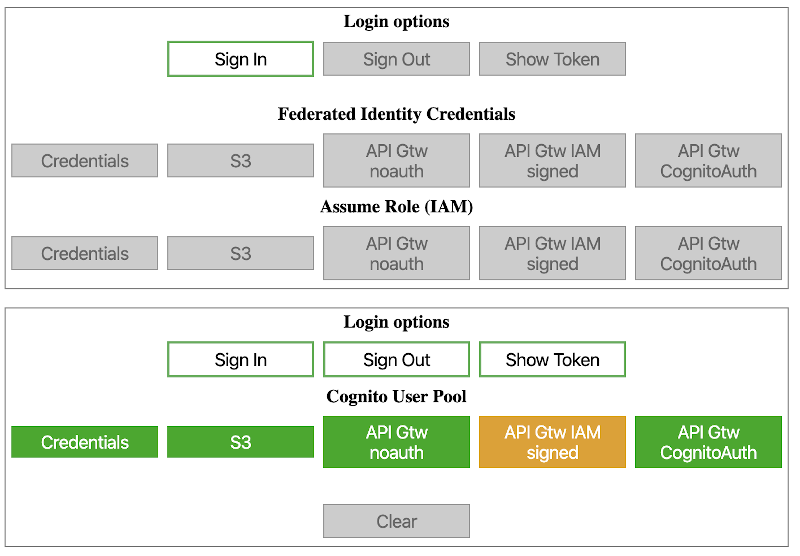
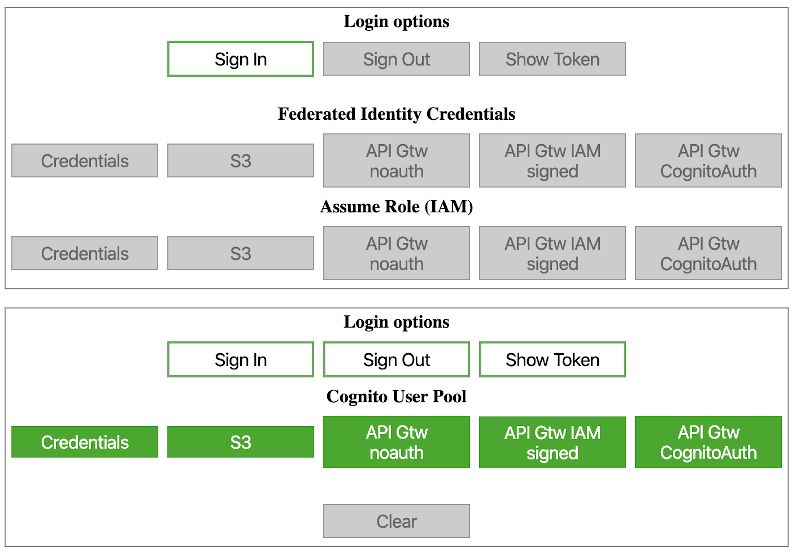
Fix IAM request with user pool

Changed region(s): [[0.5938, 0.7338, 0.7812, 0.8561]]

diff --git a/web/js/authenticate.js b/web/js/authenticate.js
@@ -227,7 +227,7 @@ var callApiGateway = function(resource, accessToken = null) {
 // Perform an action give the Cognito User Pool custom domain
 var performActionCustomDomainCognito = function(action, resource, token) {
 
-    if (action == 's3') {
+    if (action == 's3' || action == 'apigatewayIAM') {
         const loginId = 'cognito-idp.' + config.Region + '.amazonaws.com/' + config.UserPoolWithFedIdentity
         AWS.config.region = config.Region
         AWS.config.credentials = new AWS.CognitoIdentityCredentials({
@@ -244,11 +244,12 @@ var performActionCustomDomainCognito = function(action, resource, token) {
                 var accessKey = AWS.config.credentials.accessKeyId
                 var secretKey = AWS.config.credentials.secretAccessKey
                 var sessionToken = AWS.config.credentials.sessionToken
-                accessS3(accessKey, secretKey, sessionToken)
+                if (action == 's3')
+                    accessS3(accessKey, secretKey, sessionToken)
+                else // action == apigatewayIAM
+                    callApiGatewaySignedIAM(accessKey, secretKey, sessionToken, resource)
             }
         })
-    } else if (action == 'apigatewayIAM') {
-        callApiGatewaySignedIAM(null, null, null, resource)
     } else
     if (action == 'apigateway') {
         callApiGateway(resource)

diff --git a/web/index.html b/web/index.html
@@ -117,7 +117,7 @@
                     <button class='buttonactions' id='buttonCognito3' onclick="doButtonActionCognito('apigateway', config.APINoAuthResource)">API Gtw noauth</button>
                 </td>
                 <td>
-                    <button class='buttonnorecommended' id='buttonCognito4' onclick="doButtonActionCognito('apigatewayIAM', config.APIIamResource)">API Gtw IAM signed</button>
+                    <button class='buttonactions' id='buttonCognito4' onclick="doButtonActionCognito('apigatewayIAM', config.APIIamResource)">API Gtw IAM signed</button>
                 </td>
                 <td>
                     <button class='buttonactions' id='buttonCognito5' onclick="doButtonActionCognito('apigatewayCognito', config.APICognitoResource)">API Gtw CognitoAuth</button>
